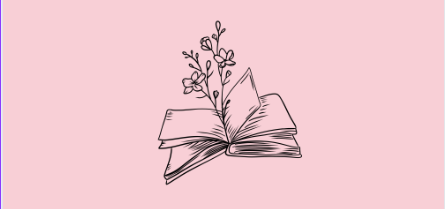
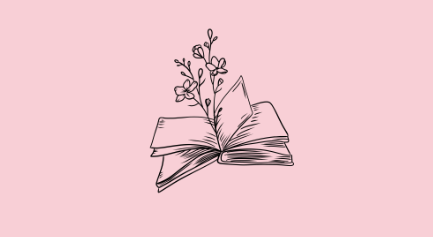
fix img

Changed region(s): [[0.3303, 0.0861, 0.6905, 0.89], [0.0, 0.0, 0.03, 1.0]]

diff --git a/css/style.css b/css/style.css
@@ -23,12 +23,21 @@ h3{
   flex-direction: column;
   align-items: center;
   background-color: #d596ba;
+  height: 88vh;
 }
 
 .home-page .logo ,.about-page .logo{
   width: 40rem;
   height: auto;
 }
+
+.about-page{
+  display: flex;
+  flex-direction: column;
+  align-items: center;
+  height: 88vh;
+}
+
 
 body {
   margin: 0;
@@ -83,6 +92,7 @@ body {
   display: flex;
   flex-wrap: wrap;
   justify-content: center;
+  margin: 0;
 }
 
 img {
